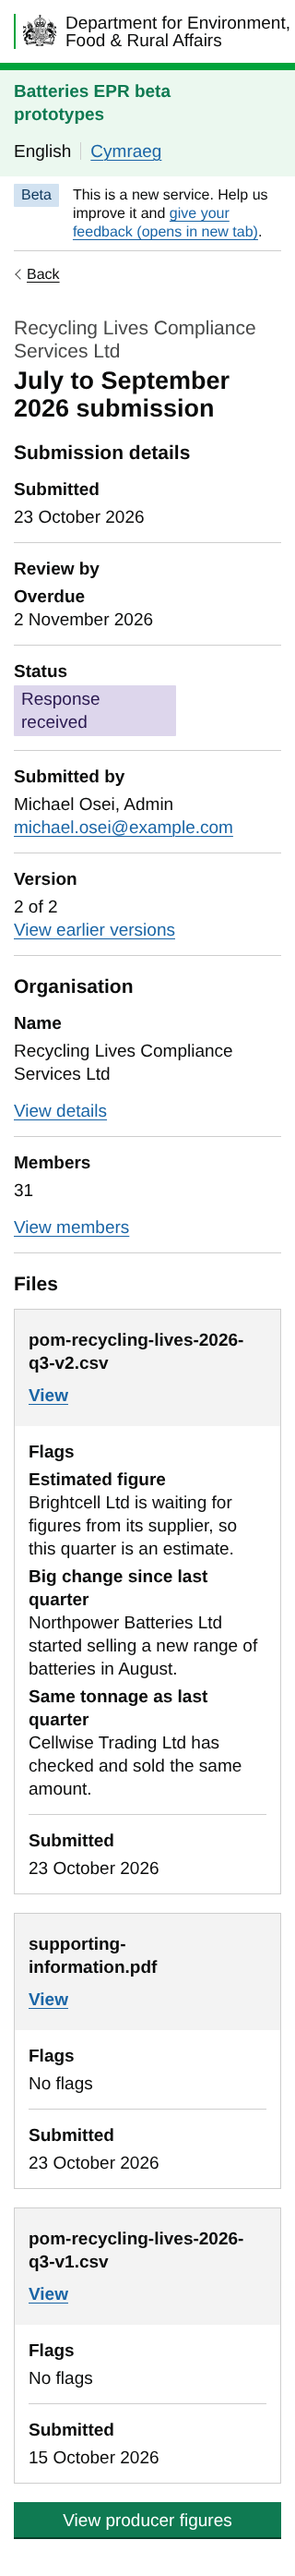
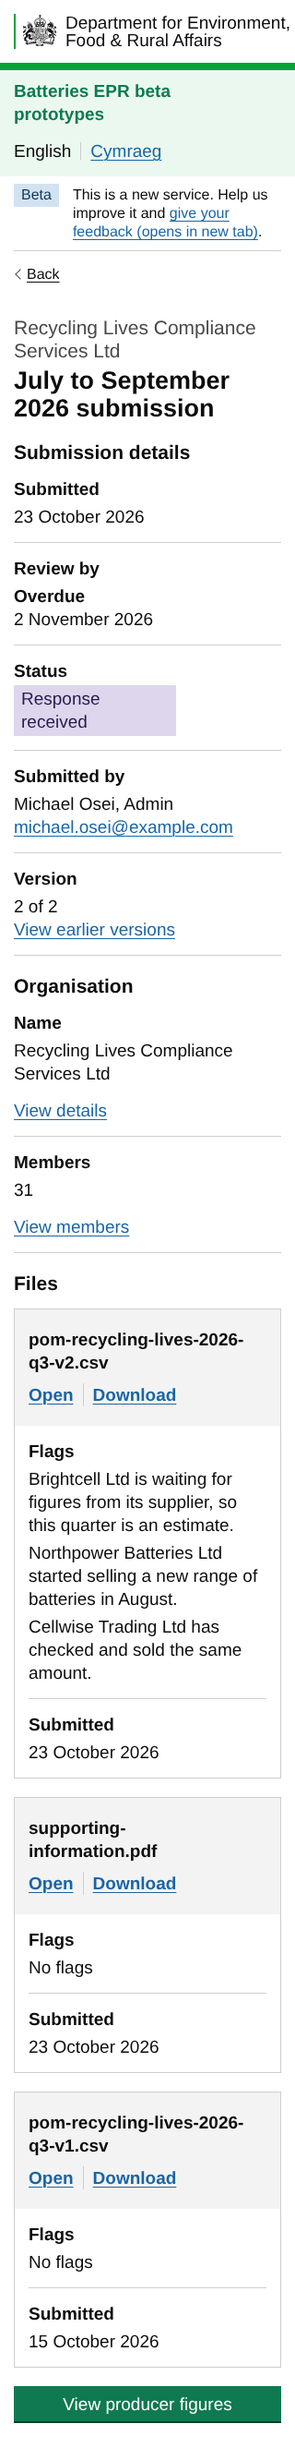
EB-325 brief: flags are just the reason; Open and Download on each file card
Claude-Session: https://claude.ai/code/session_014pBrKbgm5Jfdzkw7drhM9g

Changed region(s): [[0.0312, 0.0, 1.0, 0.997], [0.8438, 0.6231, 0.875, 0.6543]]

diff --git a/app/views/changes/add-pom-submission-page.html b/app/views/changes/add-pom-submission-page.html
@@ -16,11 +16,11 @@
 <p class="govuk-body"><strong class="govuk-tag govuk-tag--green">New</strong></p>
 <p class="govuk-body">Regulators need to see one scheme's submission for a quarter, who submitted it, and the scheme's details if they need them. There are two versions for the team to look at and say what we can build. We'd rather test one. Each version has 2 pages: the submission, then the organisation details.</p>
 <p class="govuk-body"><strong>Both versions</strong></p>
-<ul class="govuk-list govuk-list--bullet"><li>From &quot;View&quot; on the list of submissions. Scheme names on the lists aren't links: the submission links to the organisation</li><li>The scheme name as a caption, and the status tag in the submission details</li><li>Submitted by: the name and role, with their email as a link. All emails are links</li><li>Organisation, after the submission details: the name with View details (page 2), and members with View members</li><li>Files, then View producer figures last: it's the main thing to do next</li><li>Back goes to the page before in the journey, worked out from the address, so it works without JavaScript</li><li>One label for the scheme's number, &quot;BCS number&quot;. No approval number: it's the same number</li><li>Flags: what the flag is in bold, then the scheme's reason, which names the producer (&quot;Brightcell Ltd is waiting for figures from its supplier&quot;), so nothing is said twice</li><li>Dates in full in summary lists and cards (&quot;23 October 2026&quot;), where there's room. Short months only in tables, which never split over two lines</li><li>Left out, as agreed: conditions of approval, approved and expires, and account manager</li><li>On the Regulators list, the titles start FULL or BRIEF, so it's easy to see which is which</li></ul>
+<ul class="govuk-list govuk-list--bullet"><li>From &quot;View&quot; on the list of submissions. Scheme names on the lists aren't links: the submission links to the organisation</li><li>The scheme name as a caption, and the status tag in the submission details</li><li>Submitted by: the name and role, with their email as a link. All emails are links</li><li>Organisation, after the submission details: the name with View details (page 2), and members with View members</li><li>Files, then View producer figures last: it's the main thing to do next</li><li>Back goes to the page before in the journey, worked out from the address, so it works without JavaScript</li><li>One label for the scheme's number, &quot;BCS number&quot;. No approval number: it's the same number</li><li>Flags: the scheme's reason names the producer (&quot;Brightcell Ltd is waiting for figures from its supplier&quot;), so nothing is said twice</li><li>Dates in full in summary lists and cards (&quot;23 October 2026&quot;), where there's room. Short months only in tables, which never split over two lines</li><li>Left out, as agreed: conditions of approval, approved and expires, and account manager</li><li>On the Regulators list, the titles start FULL or BRIEF, so it's easy to see which is which</li></ul>
 <p class="govuk-body"><strong>Brief version (Marie and Jen)</strong></p>
-<ul class="govuk-list govuk-list--bullet"><li>Submission details: submitted, review by, status, submitted by and the version (&quot;2 of 2&quot;, with a link to earlier versions)</li><li>Files as GOV.UK summary cards, one per file: the file name as the title, View to open it (same tab for now), then the flags and when it was submitted. Cards stack up clearly when there are several files</li><li>Organisation details are view only: no Change links</li><li>People who can submit: just the people not already shown (the appropriate person and admin can always submit), each with their email and &quot;delegated authority&quot;. No list of other users</li><li>&quot;Admin&quot; for the top of the scheme's account</li></ul>
+<ul class="govuk-list govuk-list--bullet"><li>Submission details: submitted, review by, status, submitted by and the version (&quot;2 of 2&quot;, with a link to earlier versions)</li><li>Files as GOV.UK summary cards, one per file: the file name as the title, with Open and Download, then the flags (just the scheme's reason, which names the producer) and when it was submitted. Cards stack up clearly when there are several files</li><li>Organisation details are view only: no Change links</li><li>People who can submit: just the people not already shown (the appropriate person and admin can always submit), each with their email and &quot;delegated authority&quot;. No list of other users</li><li>&quot;Admin&quot; for the top of the scheme's account</li></ul>
 <p class="govuk-body"><strong>Full version (Rich)</strong></p>
-<ul class="govuk-list govuk-list--bullet"><li>Submission details with Rich's extras: days left, BCS number, tonnage and producers in the file</li><li>Files in one table, full width, in 16px text and the MOJ scrollable pane: the file name (it opens the file, in the same tab for now), the flags, and submitted</li><li>Everything full width, so the labels fit on one line, and the flags line up with the answers in the summary lists above</li><li>Organisation details have Change links, so we can ask the business whether regulators can change them. People who can submit with their emails (if someone's authority has ended, they're not on the list), and other users in a details component</li><li>&quot;Super user&quot; for the top of the scheme's account</li></ul>
+<ul class="govuk-list govuk-list--bullet"><li>Submission details with Rich's extras: days left, BCS number, tonnage and producers in the file</li><li>Files in one table, full width, in 16px text and the MOJ scrollable pane: the file name (it opens the file, in the same tab for now), the flags (what the flag is in bold, then the scheme's reason), and submitted</li><li>Everything full width, so the labels fit on one line, and the flags line up with the answers in the summary lists above</li><li>Organisation details have Change links, so we can ask the business whether regulators can change them. People who can submit with their emails (if someone's authority has ended, they're not on the list), and other users in a details component</li><li>&quot;Super user&quot; for the top of the scheme's account</li></ul>
 <p class="govuk-body"><strong>Questions</strong></p>
 <ul class="govuk-list govuk-list--bullet"><li>Can regulators change organisation details? (the full version's Change links)</li><li>Who can submit: more to discuss. A return from someone without authority shouldn't get through at all, so that's for the developers, not the page</li></ul>
 <p class="govuk-body"><strong>Prototype only</strong></p>

diff --git a/app/views/regulator/pom-submission/brief.html b/app/views/regulator/pom-submission/brief.html
@@ -13,8 +13,8 @@
   - Organisation: the name with View details (page 2), and members with View
     members
   - Files: one GOV.UK summary card per file, with the file name as the title
-    and View to open it (same tab for now). Flags: what it is in bold, then
-    the scheme's reason, which names the producer, then when it was submitted
+    with Open and Download. Flags: just the scheme's reason, which names
+    the producer, then when it was submitted
   - View producer figures: the main call to action, last
   "Admin", not "Super user" (Jen's word)
 
@@ -87,15 +87,19 @@
   <div class="govuk-grid-column-two-thirds">
 
     {# Files: one summary card per file, newest first. The file name is the
-       card's title, and View opens the file (in the same tab for now).
-       Flags: what it is in bold, then the scheme's reason, which names the producer #}
+       card's title, with Open and Download.
+       Flags: just the scheme's reason, which names the producer (the full
+       version also says what kind of flag it is) #}
     <h2 class="govuk-heading-m">{{ words.filesHeading }}</h2>
     {% for f in s.files %}
-      {% set flagsHtml %}{% if f.flagList.length %}<ul class="govuk-list">{% for flag in f.flagList %}<li><strong>{{ flag.title }}</strong><br>{{ flag.reason }}</li>{% endfor %}</ul>{% else %}{{ words.noFlags }}{% endif %}{% endset %}
+      {% set flagsHtml %}{% if f.flagList.length %}<ul class="govuk-list">{% for flag in f.flagList %}<li>{{ flag.reason }}</li>{% endfor %}</ul>{% else %}{{ words.noFlags }}{% endif %}{% endset %}
       {{ govukSummaryList({
         card: {
           title: { text: f.name, headingLevel: 3 },
-          actions: { items: [{ href: notBuiltHref, text: words.viewLink, visuallyHiddenText: f.name }] }
+          actions: { items: [
+            { href: notBuiltHref, text: words.openLink, visuallyHiddenText: f.name },
+            { href: notBuiltHref, text: words.downloadLink, visuallyHiddenText: f.name }
+          ] }
         },
         rows: [
           { key: { text: words.flags }, value: { html: flagsHtml } },

diff --git a/app/content/regulator/pom-submission-brief.md b/app/content/regulator/pom-submission-brief.md
@@ -43,8 +43,11 @@ View earlier versions
 ## Files heading
 Files
 
-## View link (on each file, opens it)
-View
+## Open link (on each file)
+Open
+
+## Download link (on each file)
+Download
 
 ## Flags (on each file)
 Flags
